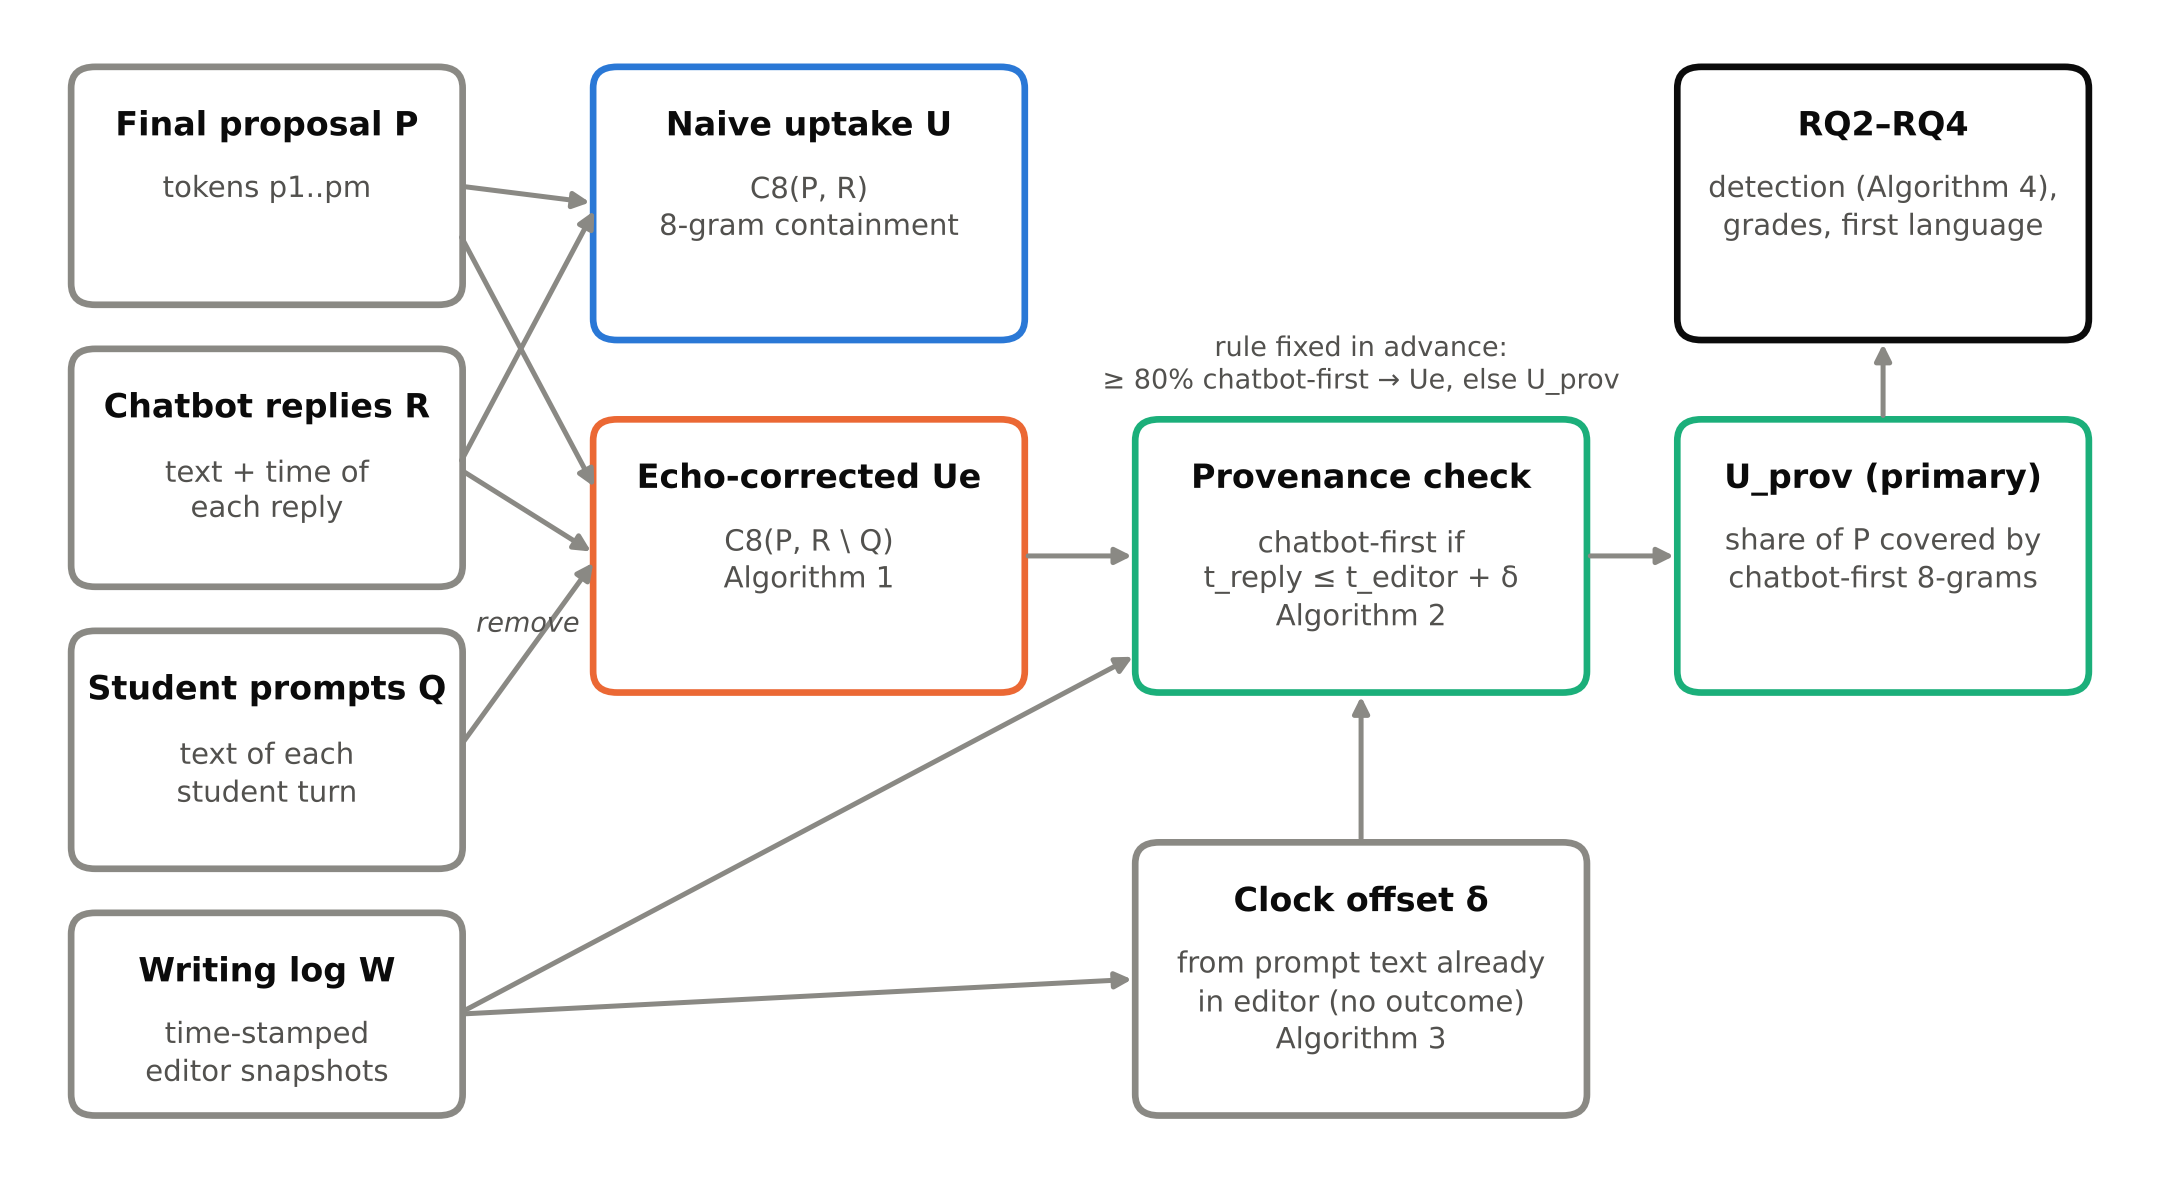
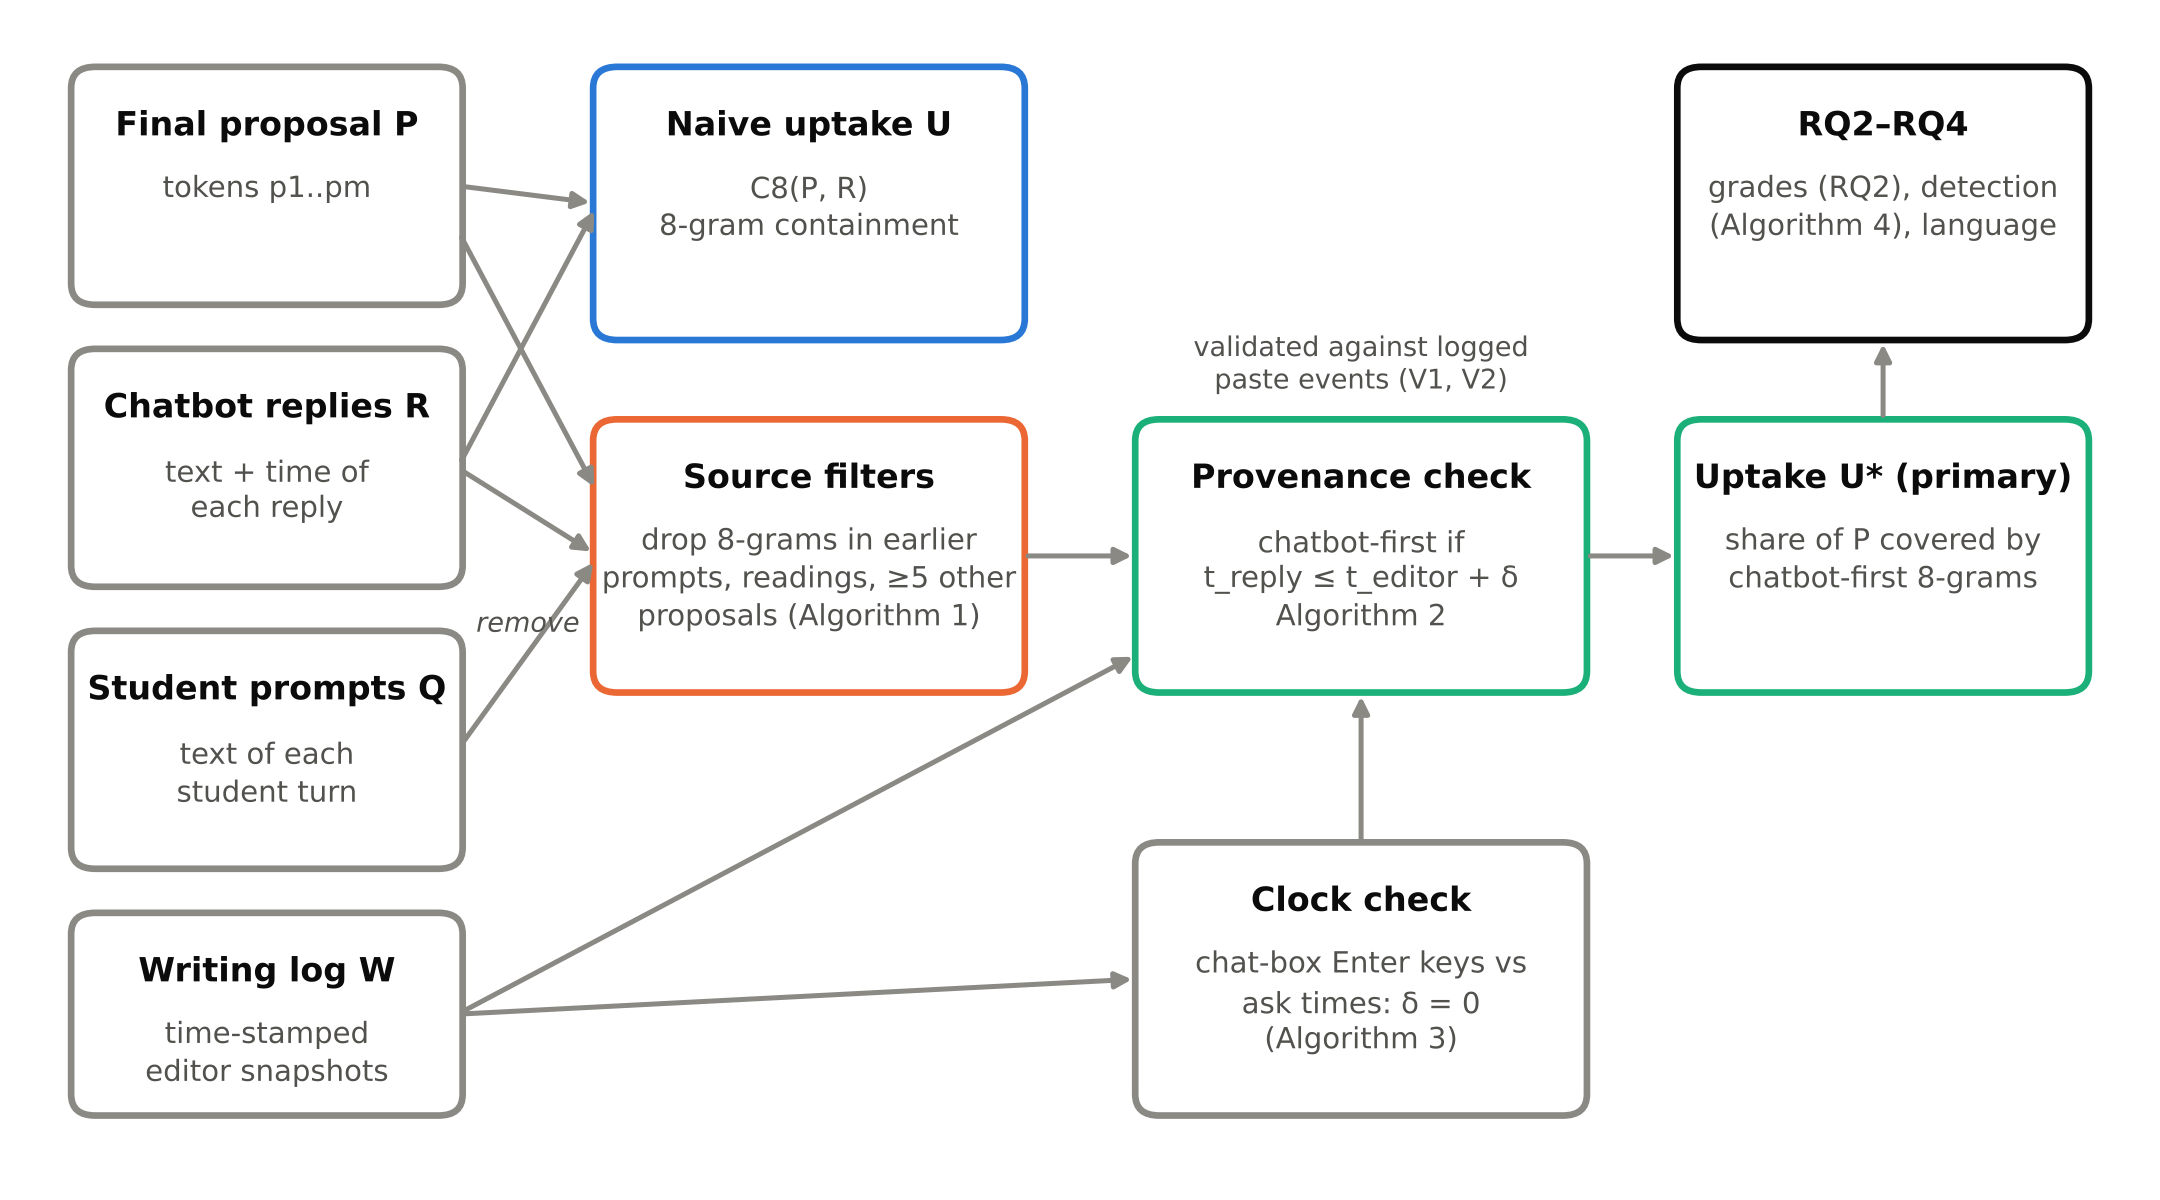
Figures with the R1 measure

diff --git a/src/make_figs.py b/src/make_figs.py
@@ -6,20 +6,30 @@ D = sys.argv[1]
 d = pd.read_excel(f'{D}/dialogue.xlsx'); p = pd.read_excel(f'{D}/proposal.xlsx').set_index('user_id')
 users = sorted(set(d.user_id) & set(p.index))
 U = np.array([R.coverage(R.tok(p.loc[u, 'final_proposal']), R.ngrams(R.tok(' '.join(d[d.user_id == u].chatbot_utterance_text.astype(str))), 8), 8) for u in users])
-Ue = np.load('results/Ue.npy'); Up = np.load('results/Uprov_primary_0h.npy')
+Ue = np.load('results/Ue.npy'); Up = np.load('results/U_R1.npy')
 score = p.reindex(users).proposal_score.values
 C = ['#2a78d6', '#eb6834', '#1baf7a']; ink = '#52514e'
 plt.rcParams.update({'font.family': 'DejaVu Serif', 'font.size': 9, 'axes.edgecolor': ink, 'axes.labelcolor': '#0b0b0b',
                      'xtick.color': ink, 'ytick.color': ink, 'axes.spines.top': False, 'axes.spines.right': False})
 fig, ax = plt.subplots(figsize=(6.2, 3.4))
-for v, lab, c, ls in [(U, 'Naive overlap U', C[0], '-'), (Ue, 'Echo removed Ue', C[1], '--'), (Up, 'Provenance checked U_prov', C[2], ':')]:
+for v, lab, c, ls in [(U, 'Naive overlap U', C[0], '-'), (Ue, 'Direction-blind echo removal', C[1], '--'), (Up, 'Provenance-checked U* (primary)', C[2], ':')]:
     x = np.sort(v); ax.step(x, 1 - np.arange(len(x)) / len(x), where='post', color=c, lw=2, ls=ls, label=lab)
 ax.set_xlabel('Share of proposal tokens covered by chatbot 8-grams'); ax.set_ylabel('Share of students at or above x')
 ax.grid(axis='y', color='#e6e5e0', lw=0.6); ax.legend(frameon=False, loc='upper right'); ax.set_xlim(0, 1); ax.set_ylim(0, 1.02)
 fig.tight_layout(); fig.savefig('results/fig1_uptake_ccdf.png', dpi=300)
 fig, ax = plt.subplots(figsize=(6.2, 3.4))
-ax.scatter(Up, score + np.random.default_rng(1).uniform(-.1, .1, len(score)), s=22, color=C[0], alpha=.7, edgecolor='#fcfcfb', lw=.6)
-ax.set_xlabel('Provenance-checked uptake U_prov'); ax.set_ylabel('Proposal score (0–15)')
-ax.grid(color='#e6e5e0', lw=0.6); ax.set_xlim(-0.02, 1.02)
+from statsmodels.nonparametric.smoothers_lowess import lowess
+hi = Up >= .5; jit = np.random.default_rng(1).uniform(-.1, .1, len(score))
+ax.scatter(Up[~hi], score[~hi] + jit[~hi], s=20, color=C[0], alpha=.65, edgecolor='#fcfcfb', lw=.6, label='U* < 0.5')
+ax.scatter(Up[hi], score[hi] + jit[hi], s=24, marker='D', color=C[1], alpha=.8, edgecolor='#fcfcfb', lw=.6, label='U* ≥ 0.5')
+grid = np.linspace(0, 1, 50); rng = np.random.default_rng(7); curves = []
+for _ in range(500):
+    b = rng.choice(len(Up), len(Up)); f = lowess(score[b], Up[b], frac=.6, return_sorted=True)
+    curves.append(np.interp(grid, f[:, 0], f[:, 1]))
+f = lowess(score, Up, frac=.6, return_sorted=True)
+ax.fill_between(grid, np.percentile(curves, 2.5, 0), np.percentile(curves, 97.5, 0), color=ink, alpha=.12, lw=0)
+ax.plot(f[:, 0], f[:, 1], color=ink, lw=2, label='LOWESS with 95% band')
+ax.set_xlabel('Provenance-checked uptake U*'); ax.set_ylabel('Proposal score (0–15)')
+ax.grid(color='#e6e5e0', lw=0.6); ax.set_xlim(-0.02, 1.02); ax.legend(frameon=False, loc='lower right', fontsize=8)
 fig.tight_layout(); fig.savefig('results/fig2_score_vs_uptake.png', dpi=300)
 print('ok')

diff --git a/src/make_pipeline_fig.py b/src/make_pipeline_fig.py
@@ -18,14 +18,14 @@ box(0, 10, 19, 13, 'Student prompts Q', 'text of each\nstudent turn', grey)
 box(0, -4, 19, 11, 'Writing log W', 'time-stamped\neditor snapshots', grey)
 # measures
 box(26, 40, 21, 15, 'Naive uptake U', 'C8(P, R)\n8-gram containment', blue)
-box(26, 20, 21, 15, 'Echo-corrected Ue', 'C8(P, R \\ Q)\nAlgorithm 1', orange)
+box(26, 20, 21, 15, 'Source filters', 'drop 8-grams in earlier\nprompts, readings, ≥5 other\nproposals (Algorithm 1)', orange)
 box(53, 20, 22, 15, 'Provenance check', 'chatbot-first if\nt_reply ≤ t_editor + δ\nAlgorithm 2', aqua)
-box(53, -4, 22, 15, 'Clock offset δ', 'from prompt text already\nin editor (no outcome)\nAlgorithm 3', grey)
-box(80, 20, 20, 15, 'U_prov (primary)', 'share of P covered by\nchatbot-first 8-grams', aqua)
-box(80, 40, 20, 15, 'RQ2–RQ4', 'detection (Algorithm 4),\ngrades, first language', ink)
+box(53, -4, 22, 15, 'Clock check', 'chat-box Enter keys vs\nask times: δ = 0\n(Algorithm 3)', grey)
+box(80, 20, 20, 15, 'Uptake U* (primary)', 'share of P covered by\nchatbot-first 8-grams', aqua)
+box(80, 40, 20, 15, 'RQ2–RQ4', 'grades (RQ2), detection\n(Algorithm 4), language', ink)
 for y in (48.5, 32.5): arr(19, y, 26, 47.5)
 arr(19, 32.5, 26, 27.5); arr(19, 16.5, 26, 27.5, 'remove'); arr(47, 27.5, 53, 27.5); arr(19, 46, 26, 31)
 arr(19, 1.5, 53, 3.5); arr(64, 11, 64, 20); arr(19, 1.5, 53, 22)
 arr(75, 27.5, 80, 27.5); arr(90, 35, 90, 40)
-ax.text(64, 37, 'rule fixed in advance:\n≥ 80% chatbot-first → Ue, else U_prov', ha='center', color=sub, fontsize=6.5)
+ax.text(64, 37, 'validated against logged\npaste events (V1, V2)', ha='center', color=sub, fontsize=6.5)
 fig.tight_layout(); fig.savefig('results/fig0_pipeline.png', dpi=300); print('ok')
